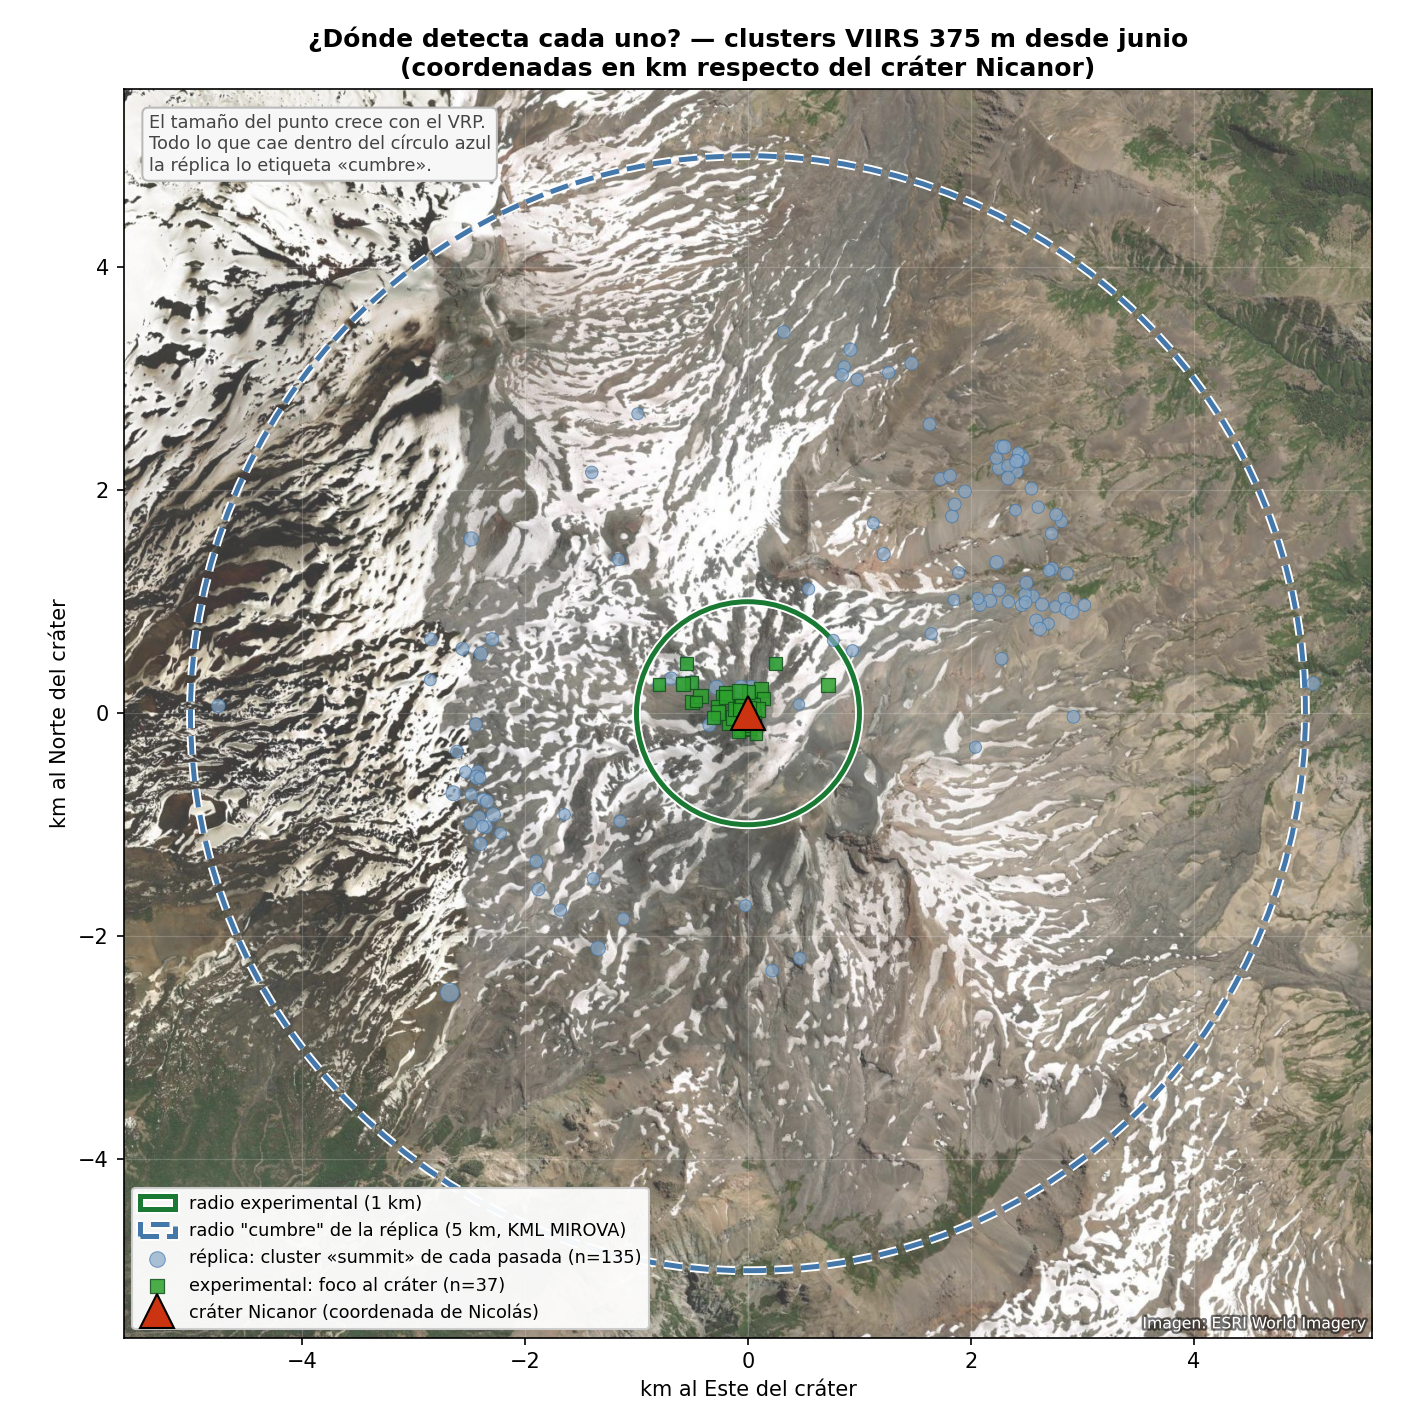
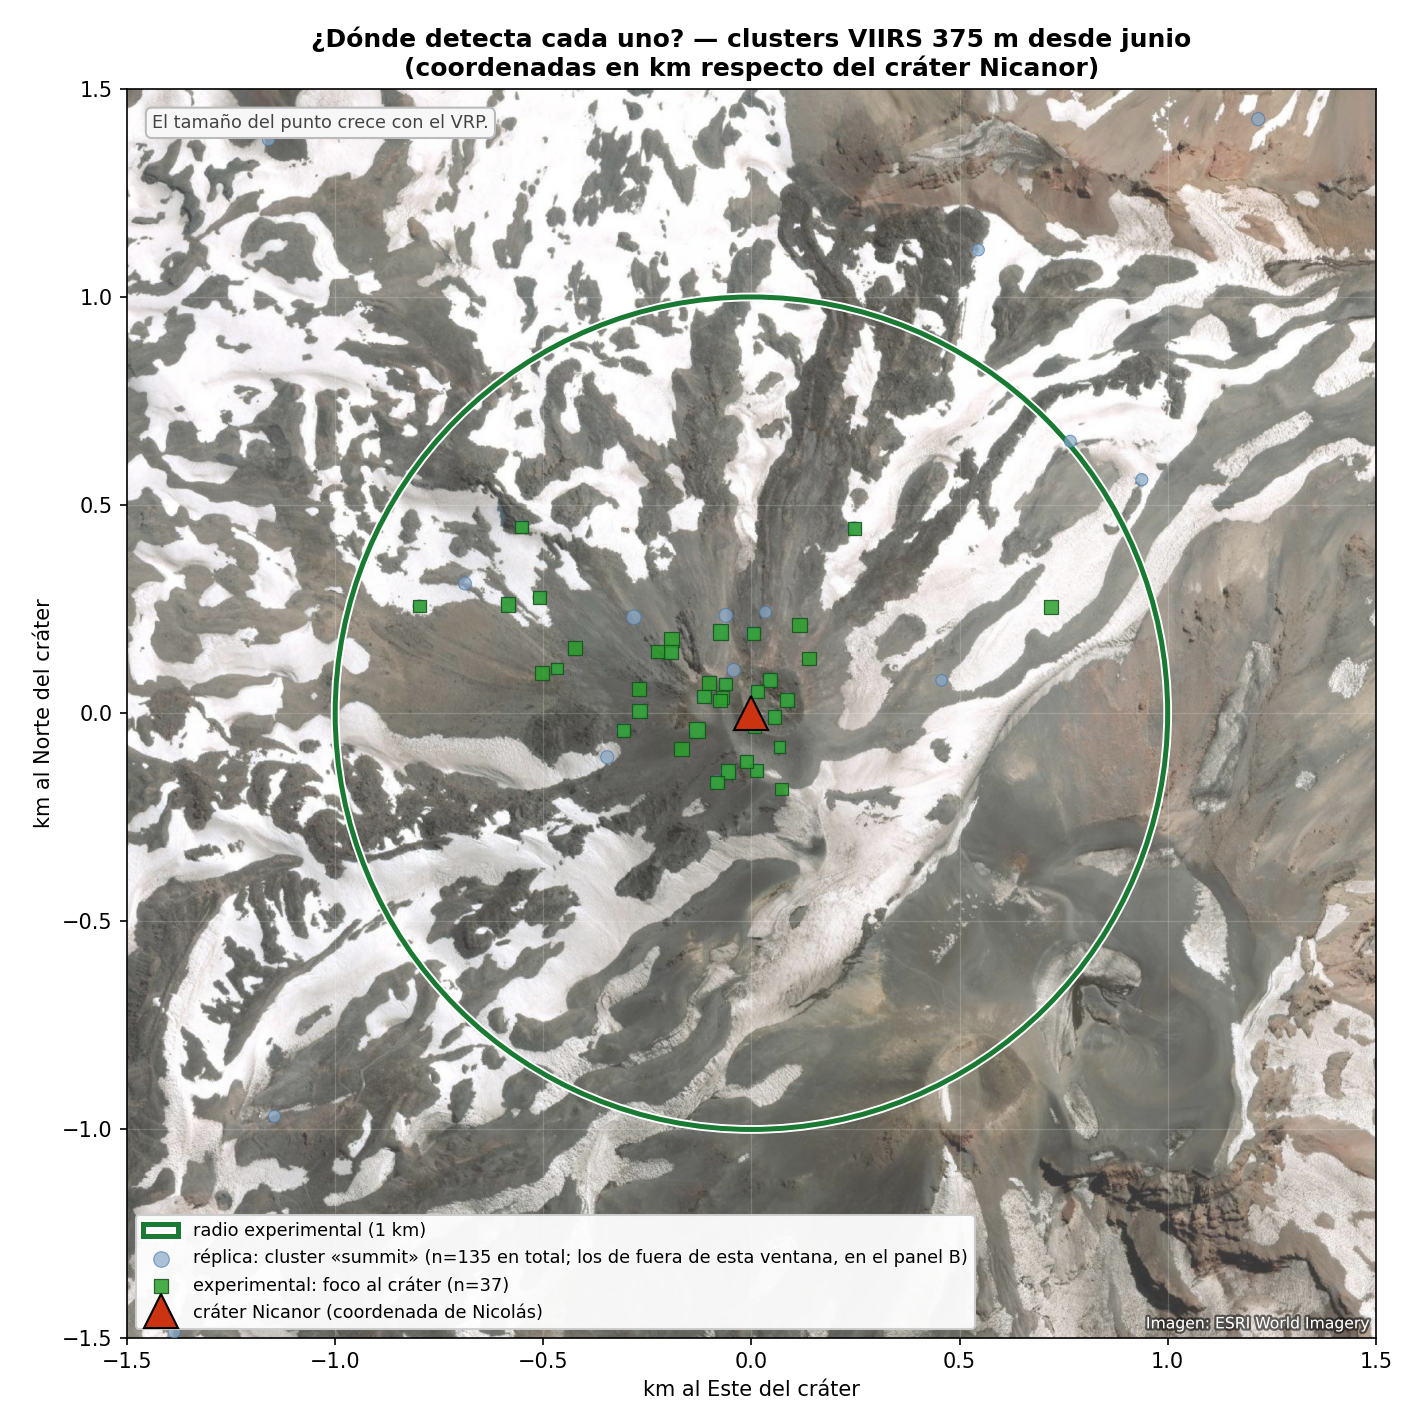
fix(s124): mapa NdC a 1.5 km + el panel de nubosidad dice lo que realmente mide
Pedidos de Nicolas sobre las figuras.

MAPA: ventana de 1.5 km de radio (antes 5.6) y zoom de tesela 16. A esa escala
se ve el detalle: el foco experimental se apoya en el crater y en la mancha de
ceniza al oeste, y varios clusters de la replica caen fuera del circulo de 1 km.

PANEL DE NUBOSIDAD: Nicolas no reconocia como despejadas semanas que el sabe
que fueron de temporal (A62: la insistencia del experto es senal). Tenia razon.
Nuestra "mascara de nube" es un umbral unico I05 < 260 K, que ve nube ALTA Y
FRIA pero no la nube baja de tormenta, cuyo tope esta en 263-273 K y pasa como
despejado. Y a esta altitud el terreno nevado irradia en ese mismo rango: en el
76% de las pasadas "despejadas" de NdC el fondo esta bajo 0 C, donde nube baja y
nieve son indistinguibles para un umbral de temperatura unico (mecanismo A68).

Segundo error, mio: el pipeline persiste cuantos pixeles enmascaro pero NO
cuantos tenia el ROI, asi que yo dividia por un total teorico y 39 pasadas daban
mas de 100% "despejado". El panel ahora grafica el CONTEO crudo de pixeles
frios, reetiquetado con lo que de verdad mide y con la advertencia encima.

Detalle y las 3 salidas posibles: D14 en MIROVA_DIVERGENCES.md.

diff --git a/experiments/_s124_ndc_focus/plot_mapa.py b/experiments/_s124_ndc_focus/plot_mapa.py
@@ -45,7 +45,7 @@ for r in d["records"]:
     pc = r.get("primary_cluster") or {}
     v = pc.get("vrp_mw") or 0
     if v <= 0 or r.get("distance_class") != "summit" or pc.get("centroid_lat") is None: continue
-    if (pc.get("centroid_dist_km") or 0) > 5.0: continue
+    if (pc.get("centroid_dist_km") or 0) > 5.0: continue   # el resto se cuenta en el panel B
     rep.append((pc["centroid_lat"], pc["centroid_lon"], v))
 
 # experimental: clusters en el foco
@@ -63,8 +63,8 @@ ax.set_title("¿Dónde detecta cada uno? — clusters VIIRS 375 m desde junio\n"
 
 # Fondo satelital: sin él no se puede juzgar si una anomalía cae sobre el
 # cráter, sobre el glaciar o sobre el valle. zorder bajo = debajo de todo.
-LIM = 5.6
-_img, _ext = satelital_km(NIC[0], NIC[1], LIM, zoom=14)
+LIM = 1.5          # pedido de Nicolás: mostrar solo el entorno del cráter
+_img, _ext = satelital_km(NIC[0], NIC[1], LIM, zoom=16)   # más zoom: la ventana es chica
 if _img is not None:
     ax.imshow(_img, extent=_ext, origin="upper", zorder=0, interpolation="bilinear")
     # velo tenue: la imagen es oscura y contrastada; sin esto los puntos y los
@@ -73,8 +73,7 @@ if _img is not None:
                                fc="white", alpha=0.22, zorder=1, ec="none"))
 
 # circulos de referencia
-for rkm, col, lab in ((1.0, "#1a7a33", "radio experimental (1 km)"),
-                      (5.0, "#4477aa", 'radio "cumbre" de la réplica (5 km, KML MIROVA)')):
+for rkm, col, lab in ((1.0, "#1a7a33", "radio experimental (1 km)"),):
     c = plt.Circle((0, 0), rkm, fill=False, color=col, lw=2.4,
                    ls="-" if rkm == 1 else "--", label=lab, zorder=2,
                    path_effects=[pe.withStroke(linewidth=4.2, foreground="white")])
@@ -83,7 +82,7 @@ for rkm, col, lab in ((1.0, "#1a7a33", "radio experimental (1 km)"),
 xs, ys, vs = zip(*[(*km_xy(la, lo), v) for la, lo, v in rep])
 ax.scatter(xs, ys, s=[28+260*v for v in vs], c="#88a8c8", alpha=0.7,
            edgecolors="#4477aa", lw=0.5, zorder=3,
-           label=f"réplica: cluster «summit» de cada pasada (n={len(rep)})")
+           label=f"réplica: cluster «summit» (n={len(rep)} en total; los de fuera de esta ventana, en el panel B)")
 if foc:
     xs, ys, vs = zip(*[(*km_xy(la, lo), v) for la, lo, v in foc])
     ax.scatter(xs, ys, s=[28+260*v for v in vs], c="#2ca02c", marker="s", alpha=0.85,
@@ -97,8 +96,7 @@ ax.set_xlim(-LIM, LIM); ax.set_ylim(-LIM, LIM)
 ax.set_aspect("equal")
 ax.grid(True, alpha=0.18, color="white", lw=0.6)
 ax.legend(loc="lower left", fontsize=8.5, framealpha=0.95)
-ax.text(0.02, 0.98, "El tamaño del punto crece con el VRP.\n"
-        "Todo lo que cae dentro del círculo azul\nla réplica lo etiqueta «cumbre».",
+ax.text(0.02, 0.98, "El tamaño del punto crece con el VRP.",
         transform=ax.transAxes, va="top", fontsize=8.5, color="#444",
         bbox=dict(boxstyle="round,pad=0.35", fc="#f7f7f7", ec="#bbb"))
 ax.text(0.995, 0.005, ATRIBUCION, transform=ax.transAxes, ha="right", va="bottom",

diff --git a/experiments/_s124_ndc_focus/plot_simple.py b/experiments/_s124_ndc_focus/plot_simple.py
@@ -80,13 +80,24 @@ for r in d["records"]:
         continue
     replica[f] = max(replica.get(f, 0), v)
 
-# ── Observabilidad: ¿cuánto del ROI vio el sensor esa noche? ────────────────
-# POR QUÉ del propio sensor y no de un pronóstico meteorológico: lo que importa
-# no es "había nubes sobre el volcán" sino "¿esta pasada, con esta geometría,
-# vio el suelo?". La máscara de nube del granule responde exactamente eso, a
-# 375 m y en el instante del sobrevuelo. Un modelo meteorológico da cobertura
-# interpolada en celdas de ~28 km y por hora: no resuelve el ROI ni el momento.
-# Se toma la MEJOR pasada de cada noche: si alguna vio, la noche fue observable.
+# ── Píxeles FRÍOS por noche (proxy PARCIAL de nube) ─────────────────────────
+# ⚠ QUÉ MIDE ESTO REALMENTE (S124, a raíz de que Nicolás no reconocía las
+# semanas de tormenta): `n_cloud_masked` cuenta los píxeles del ROI con
+# I05 < 260 K. Eso detecta nube ALTA Y FRÍA (cirros, topes convectivos) pero
+# NO la nube baja de una tormenta invernal, cuyo tope irradia entre −10 y 0 °C
+# (263–273 K) y por lo tanto pasa como "despejado". Encima, a esta altitud el
+# terreno nevado irradia en ese mismo rango: en el 76 % de las pasadas que este
+# proxy llama despejadas el fondo está bajo 0 °C, donde nube baja y nieve son
+# INDISTINGUIBLES para un umbral único de temperatura (mismo mecanismo que A68).
+#
+# Además el DENOMINADOR no se persiste: el pipeline guarda cuántos píxeles
+# enmascaró pero no cuántos tenía el ROI, así que un porcentaje exacto no se
+# puede reconstruir del JSON (por eso acá se grafica el CONTEO, no un %).
+#
+# El arreglo correcto NO es una API meteorológica (celdas de ~28 km, horaria,
+# modelo y no observación) sino la máscara de nube OFICIAL del propio sensor
+# —MOD35_L2 y CLDMSK_L2_VIIRS_*, que existen con versión NRT— que usa ~15
+# tests espectrales diseñados justamente para separar nube de nieve.
 PIX_ROI_I = (50.0 / 0.375) ** 2          # ROI 50x50 km en píxeles I-band nadir
 despejado = {}
 _d_op = json.loads((ROOT / "data/mirova_equivalent/NevadosDeChillan.json").read_text(encoding="utf-8"))
@@ -98,8 +109,9 @@ for r in _d_op["records"]:
     nc = r.get("n_cloud_masked")
     if nc is None:
         continue
-    pct = max(0.0, 100.0 * (1.0 - nc / PIX_ROI_I))
-    despejado[f] = max(despejado.get(f, 0.0), pct)   # la mejor pasada de la noche
+    # conteo crudo de píxeles fríos; la MENOR de la noche (la pasada más limpia)
+    prev = despejado.get(f)
+    despejado[f] = nc if prev is None else min(prev, nc)
 
 # ── Foco experimental: summit a <=1 km del cráter Nicanor ───────────────────
 foco = {}
